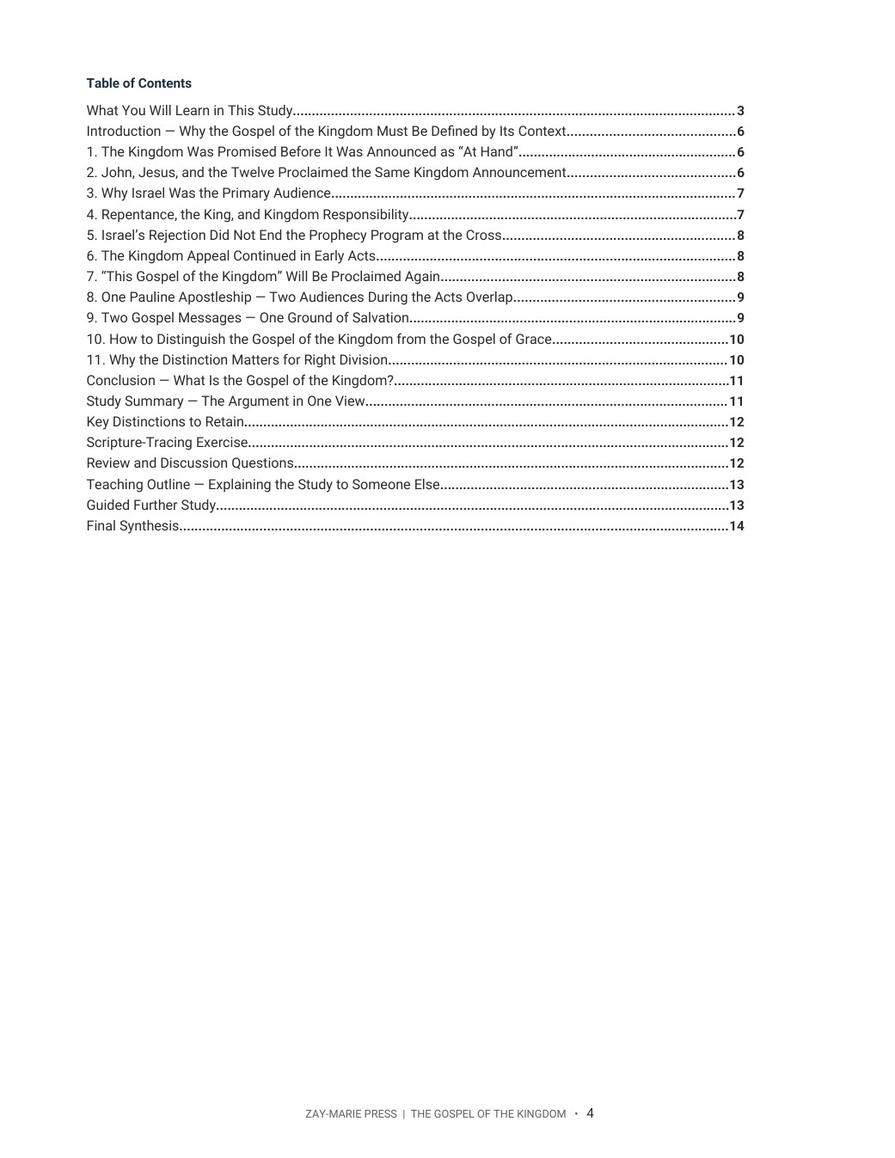
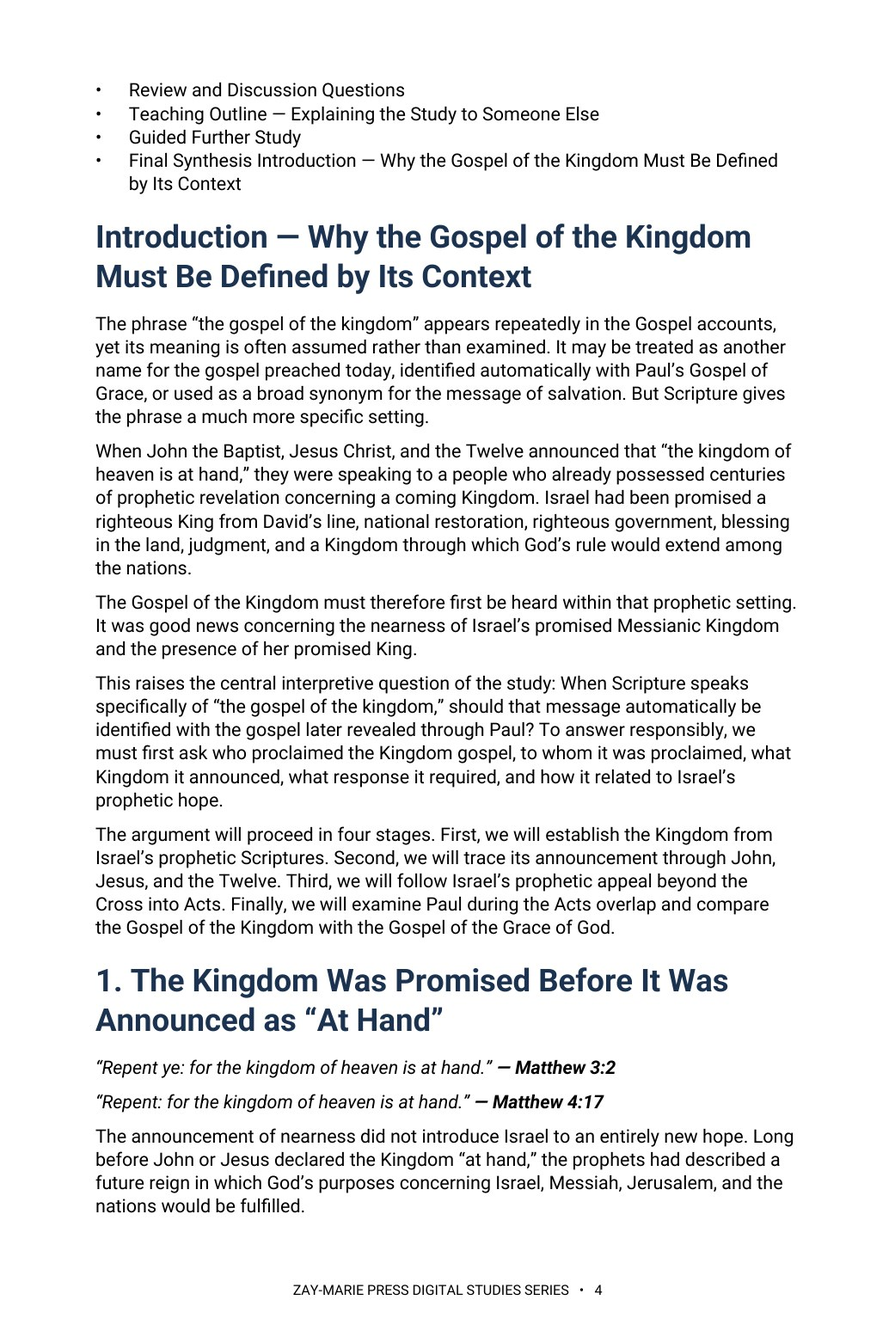
Study 2 retrofit: 18 pages, previews 2/3/4 at 1041x1562, trackers v1.49/v1.143
Claude-Session: https://claude.ai/code/session_01KcENxFzE91mCRyTPWhcwnE

Changed region(s): [[0.0922, 0.0624, 0.8915, 0.9042], [0.3381, 0.9354, 0.6455, 0.9666]]

diff --git a/study-02-the-gospel-of-the-kingdom.html b/study-02-the-gospel-of-the-kingdom.html
@@ -27,9 +27,9 @@
 <section class="detail-section soft"><div class="wrap"><div class="eyebrow">WHAT YOU’LL STUDY</div><h2>Trace the Kingdom Message From Prophecy Through the Acts Overlap</h2><div class="study-points"><div class="study-point"><h3>The Kingdom Promised Before Matthew</h3><p>Establish the prophetic background of Messiah, David’s throne, Israel’s restoration, righteous government, and God’s rule among the nations.</p></div><div class="study-point"><h3>John, Jesus &amp; the Twelve</h3><p>Follow the same “at hand” Kingdom announcement through John the Baptist, Jesus Christ, and the Twelve.</p></div><div class="study-point"><h3>Israel as the Covenantal Audience</h3><p>Examine why the initial Kingdom proclamation was directed to Israel and how covenant, Messiah, and Kingdom promises identify its setting.</p></div><div class="study-point"><h3>The Prophetic Appeal After the Cross</h3><p>Use Acts 1–3 to see why Israel’s Prophecy Program continued after the resurrection rather than ending at the Cross.</p></div><div class="study-point"><h3>Paul During the Acts Overlap</h3><p>Distinguish Paul’s one Mystery apostleship from Prophecy truth he could communicate to Israel while both programs operated concurrently.</p></div><div class="study-point"><h3>Kingdom Gospel &amp; Gospel of Grace</h3><p>Compare audience, revealed content, promises, commission, and program while preserving the finished work of Christ as the saving ground.</p></div></div></div></section>
 <section class="detail-section cream"><div class="wrap"><div class="eyebrow">KEY SCRIPTURES</div><h2>Examine the Passages for Yourself</h2><div class="scripture-grid"><div class="scripture-card"><h3>Isaiah 9:6–7</h3><p>Places the promised Son upon David’s throne and describes the government and Kingdom already revealed in Prophecy.</p></div><div class="scripture-card"><h3>Jeremiah 23:5–8</h3><p>Promises a righteous Davidic King under whose reign Judah is saved and Israel dwells safely.</p></div><div class="scripture-card"><h3>Daniel 2:44</h3><p>Describes the Kingdom established by the God of heaven in relation to the kingdoms of this world.</p></div><div class="scripture-card"><h3>Matthew 3:1–2; 4:17</h3><p>Records John and Jesus announcing that Israel’s already-promised Kingdom had drawn near.</p></div><div class="scripture-card"><h3>Matthew 10:5–7</h3><p>Identifies Israel as the initial audience and records the Twelve proclaiming the same Kingdom announcement.</p></div><div class="scripture-card"><h3>Acts 1:6–8; 3:19–21</h3><p>Shows that Israel’s Kingdom expectation and prophetic appeal remained operative after the resurrection.</p></div><div class="scripture-card"><h3>Acts 9:15, 20–22</h3><p>Shows Paul’s distinctive calling while illustrating his ministry to Israel concerning her promised Messiah during the overlap.</p></div><div class="scripture-card"><h3>Acts 20:24; 1 Corinthians 15:1–4</h3><p>Provides Pauline testimony concerning the Gospel of Grace and the saving message proclaimed to the Body of Christ.</p></div></div></div></section>
 <section class="detail-section"><div class="wrap"><div class="eyebrow">FROM THE STUDY</div><h2>The Kingdom Was Promised Before It Was Announced as “At Hand”</h2><div class="excerpt"><blockquote>“The Kingdom itself was not newly revealed. The prophetic Kingdom had already been made known; what John and Jesus announced was that the promised Kingdom had drawn near because the promised King was present.”</blockquote><p>This distinction establishes the study’s starting point: the Gospel of the Kingdom belongs to Israel’s revealed prophetic hope. The study then follows that message through the Gospel accounts and Acts before comparing it with the previously hidden Mystery revealed through Paul.</p></div></div></section>
-<section class="detail-section soft"><div class="wrap"><div class="eyebrow">A LOOK INSIDE</div><h2>Preview the Study Before You Purchase</h2><p class="preview-instruction">Click any page to enlarge.</p><div class="preview-grid"><div class="preview-card"><a class="preview-image-link" href="assets/study-02-page-3.jpg" data-preview-lightbox><img src="assets/study-02-page-3.jpg" alt="Study 2 page 3 preview — What You Will Learn"/></a><div class="page-no">Page 3</div><h3>What You Will Learn</h3><p>See the study’s learning goals and the skills it builds for comparing the Gospel of the Kingdom with the Gospel of the Grace of God.</p></div><div class="preview-card"><a class="preview-image-link" href="assets/study-02-page-4.jpg" data-preview-lightbox><img src="assets/study-02-page-4.jpg" alt="Study 2 page 4 preview — Table of Contents"/></a><div class="page-no">Page 4</div><h3>Table of Contents</h3><p>See the full structure of the study, from the introduction through the final synthesis.</p></div><div class="preview-card"><a class="preview-image-link" href="assets/study-02-page-6.jpg" data-preview-lightbox><img src="assets/study-02-page-6.jpg" alt="Study 2 page 6 preview — Introduction"/></a><div class="page-no">Page 6</div><h3>Introduction</h3><p>See how the study frames its central question and the method it follows to answer it from Scripture.</p></div></div></div></section>
-<section class="detail-section"><div class="wrap"><div class="eyebrow">WHAT’S INCLUDED</div><h2>A Focused Study Built for<br/>Understanding and Teaching</h2><div class="includes-grid"><div class="include-item"><h3>14-Page In-Depth Biblical Study</h3><p>A focused examination that develops the Gospel of the Kingdom through sustained biblical argument rather than a brief overview.</p></div><div class="include-item"><h3>20 Study Sections</h3><p>Progress from the prophetic Kingdom promises through the Gospel accounts, Acts, Pauline revelation, comparison, and final synthesis.</p></div><div class="include-item"><h3>Study Summary &amp; Key Distinctions</h3><p>Reinforce the central argument and retain crucial distinctions such as promise versus nearness, ground versus content, and concurrency versus transfer.</p></div><div class="include-item"><h3>Scripture-Tracing Exercise</h3><p>Work through the principal passages in sequence and record what each text contributes before consulting the study’s conclusions.</p></div><div class="include-item"><h3>12 Review &amp; Discussion Questions</h3><p>Test comprehension of the Kingdom’s audience, prophetic setting, Acts chronology, Paul’s commission, and the distinction between the two gospel messages.</p></div><div class="include-item"><h3>Nine-Part Teaching Outline</h3><p>A ready framework for explaining the study’s argument from the prophets through Matthew, Acts, Paul, and the future Kingdom proclamation.</p></div><div class="include-item"><h3>Five Guided Further-Study Investigations</h3><p>Trace the Kingdom before Matthew, its announcement, the Acts appeal, Paul during the overlap, and the two gospel messages independently.</p></div><div class="include-item"><h3>Final Synthesis Exercise</h3><p>Bring the evidence together in a one-page explanation of the Kingdom gospel, its audience, its Acts continuation, and its distinction from the Gospel of Grace.</p></div></div></div></section>
-<section class="detail-section cream"><div class="wrap"><div class="final-buy"><div><div class="eyebrow">STUDY 2 · DIGITAL STUDY</div><h2>The Gospel of the Kingdom</h2><p>14-page digital PDF · For personal use</p></div><div class="final-offer"><div class="detail-price">$5.99</div><span class="detail-button pending" aria-disabled="true">Get the Study</span></div></div><a class="back-link" href="digital-studies.html">← Back to All Digital Studies</a></div></section>
+<section class="detail-section soft"><div class="wrap"><div class="eyebrow">A LOOK INSIDE</div><h2>Preview the Study Before You Purchase</h2><p class="preview-instruction">Click any page to enlarge.</p><div class="preview-grid"><div class="preview-card"><a class="preview-image-link" href="assets/study-02-page-2.jpg" data-preview-lightbox><img src="assets/study-02-page-2.jpg" alt="Study 2 page 2 preview — Table of Contents"/></a><div class="page-no">Page 2</div><h3>Table of Contents</h3><p>See the full structure of the study, from the introduction through the final synthesis.</p></div><div class="preview-card"><a class="preview-image-link" href="assets/study-02-page-3.jpg" data-preview-lightbox><img src="assets/study-02-page-3.jpg" alt="Study 2 page 3 preview — What You Will Learn"/></a><div class="page-no">Page 3</div><h3>What You Will Learn</h3><p>See the study’s learning goals and the skills it builds for comparing the Gospel of the Kingdom with the Gospel of the Grace of God.</p></div><div class="preview-card"><a class="preview-image-link" href="assets/study-02-page-4.jpg" data-preview-lightbox><img src="assets/study-02-page-4.jpg" alt="Study 2 page 4 preview — Introduction"/></a><div class="page-no">Page 4</div><h3>Introduction</h3><p>See how the study frames its central question and the method it follows to answer it from Scripture.</p></div></div></div></section>
+<section class="detail-section"><div class="wrap"><div class="eyebrow">WHAT’S INCLUDED</div><h2>A Focused Study Built for<br/>Understanding and Teaching</h2><div class="includes-grid"><div class="include-item"><h3>18-Page In-Depth Biblical Study</h3><p>A focused examination that develops the Gospel of the Kingdom through sustained biblical argument rather than a brief overview.</p></div><div class="include-item"><h3>20 Study Sections</h3><p>Progress from the prophetic Kingdom promises through the Gospel accounts, Acts, Pauline revelation, comparison, and final synthesis.</p></div><div class="include-item"><h3>Study Summary &amp; Key Distinctions</h3><p>Reinforce the central argument and retain crucial distinctions such as promise versus nearness, ground versus content, and concurrency versus transfer.</p></div><div class="include-item"><h3>Scripture-Tracing Exercise</h3><p>Work through the principal passages in sequence and record what each text contributes before consulting the study’s conclusions.</p></div><div class="include-item"><h3>12 Review &amp; Discussion Questions</h3><p>Test comprehension of the Kingdom’s audience, prophetic setting, Acts chronology, Paul’s commission, and the distinction between the two gospel messages.</p></div><div class="include-item"><h3>Nine-Part Teaching Outline</h3><p>A ready framework for explaining the study’s argument from the prophets through Matthew, Acts, Paul, and the future Kingdom proclamation.</p></div><div class="include-item"><h3>Five Guided Further-Study Investigations</h3><p>Trace the Kingdom before Matthew, its announcement, the Acts appeal, Paul during the overlap, and the two gospel messages independently.</p></div><div class="include-item"><h3>Final Synthesis Exercise</h3><p>Bring the evidence together in a one-page explanation of the Kingdom gospel, its audience, its Acts continuation, and its distinction from the Gospel of Grace.</p></div></div></div></section>
+<section class="detail-section cream"><div class="wrap"><div class="final-buy"><div><div class="eyebrow">STUDY 2 · DIGITAL STUDY</div><h2>The Gospel of the Kingdom</h2><p>18-page digital PDF · For personal use</p></div><div class="final-offer"><div class="detail-price">$5.99</div><span class="detail-button pending" aria-disabled="true">Get the Study</span></div></div><a class="back-link" href="digital-studies.html">← Back to All Digital Studies</a></div></section>
 <section class="study-method-course-bridge"><div class="wrap"><div class="study-method-course-panel"><div><div class="eyebrow">BUILD THE INTERPRETIVE METHOD</div><h2>Want More Than a Focused Study?</h2><p>Digital Studies examine particular biblical subjects and difficult passages. The 40-lesson Biblical Hermeneutics course teaches a complete, repeatable method for establishing meaning in context, determining proper assignment, and making responsible application.</p></div><a class="btn btn-primary" href="biblical-hermeneutics-course.html">BIBLICAL HERMENEUTICS COURSE</a></div></div></section></main><div class="preview-lightbox" id="preview-lightbox" role="dialog" aria-modal="true" aria-label="Enlarged study page preview"><button class="preview-lightbox-close" type="button" aria-label="Close enlarged preview">×</button><img src="" alt=""/><div class="preview-lightbox-hint">Scroll to read the full page · Press Esc or click outside the page to close</div></div>
 <footer class="site-footer"><div class="wrap footer-grid"><div class="footer-about"><h3>Zay-Marie Press</h3><p class="footer-tagline"><em>Where the Bible Means What It Says.</em></p><p>Zay-Marie Press is a Christian theological publisher dedicated to producing doctrinally precise, carefully structured biblical resources that equip pastors, teachers, and serious students with clarity, depth, and Scripture-anchored truth.</p><p><a href="https://zaymariepress.com">zaymariepress.com</a><br/><a href="mailto:info@zaymariepress.com">info@zaymariepress.com</a></p></div><div class="footer-column"><h3>Explore</h3><div class="footer-links-stacked"><a href="books.html">Books</a><br/><a href="series.html">Series</a><br/><a href="biblical-hermeneutics-course.html">Course</a><br/><a href="digital-studies.html">Digital Studies</a><br/><a href="resources.html">Resources</a><br/><a href="bible-book-summaries.html">Bible Book Summaries</a><br/><a href="doctrinal-packets.html">Doctrinal Packets</a><br/><a href="historical-drift.html">Historical Drift</a><br/><a href="about.html">About</a><br/><a href="contact.html">Contact</a></div></div><div class="footer-column"><h3>Reader Support</h3><div class="footer-links-stacked"><a href="reader-support.html#faq">FAQ</a><br/><a href="reader-support.html#shipping-returns">Shipping &amp; Returns</a><br/><a href="reader-support.html#digital-downloads">Digital Downloads</a><br/><a href="reader-support.html#contact-support">Contact Support</a></div></div><div class="footer-column"><h3>Acts Overlap</h3><p><strong>Acts Overlap Theology Series</strong></p><p><em>Two Distinct Streams. One Overlap.</em></p><p><a href="series.html">Series Overview</a></p></div></div><div class="wrap footer-bottom">© 2026 Zay-Marie Press. All rights reserved.</div></footer>
 <script src="site.js"></script><script>(function(){var box=document.getElementById("preview-lightbox"),img=box.querySelector("img"),close=box.querySelector(".preview-lightbox-close"),hint=box.querySelector(".preview-lightbox-hint"),hintTimer;function shut(){clearTimeout(hintTimer);box.classList.remove("open");hint.classList.remove("fade");document.body.style.overflow="";img.src="";}document.querySelectorAll("[data-preview-lightbox]").forEach(function(a){a.addEventListener("click",function(e){e.preventDefault();clearTimeout(hintTimer);img.src=a.getAttribute("href");img.alt=a.querySelector("img").alt;hint.classList.remove("fade");box.classList.add("open");document.body.style.overflow="hidden";box.scrollTop=0;hintTimer=setTimeout(function(){hint.classList.add("fade");},3000);});});close.addEventListener("click",shut);box.addEventListener("click",function(e){if(e.target===box)shut();});document.addEventListener("keydown",function(e){if(e.key==="Escape"&&box.classList.contains("open"))shut();});})();</script>

diff --git a/site.js b/site.js
@@ -62,7 +62,7 @@ const resourceModal=document.querySelector('#resource-modal'), resourceModalTitl
 if(resourceModal&&resourceModalTriggers.length){const closeResourceModal=()=>{resourceModal.hidden=true;document.body.classList.remove('resource-modal-open');lastResourceTrigger?.focus();};resourceModalTriggers.forEach(trigger=>trigger.addEventListener('click',()=>{lastResourceTrigger=trigger;if(resourceModalTitle)resourceModalTitle.textContent=trigger.dataset.title||'Resource';if(resourceModalDescription)resourceModalDescription.textContent=trigger.dataset.description||'';if(resourceModalLink){resourceModalLink.href=trigger.dataset.href||'#';resourceModalLink.textContent=trigger.dataset.linkText||'OPEN RESOURCE';}resourceModal.hidden=false;document.body.classList.add('resource-modal-open');resourceModalClose?.focus();}));resourceModalClose?.addEventListener('click',closeResourceModal);resourceModal.addEventListener('click',e=>{if(e.target===resourceModal)closeResourceModal();});document.addEventListener('keydown',e=>{if(e.key==='Escape'&&!resourceModal.hidden)closeResourceModal();});}
 
 /* Display the verified final-PDF page count at the primary purchase decision point. */
-const digitalStudyPageCounts={1:17,2:14,3:16,4:18,5:16,6:16,7:14,8:13,9:16,10:20,11:15,12:15,13:19,14:15,15:15,16:16,17:18,18:18,19:16,20:16,21:17,22:16,23:14,24:16,25:17,26:16,27:16,28:16,29:19,30:17,31:18,32:19,33:18,34:16,35:16,36:16,37:16,38:16,39:16,40:16,41:16,42:16,43:16,44:16,45:16,46:16,47:16,48:16,49:17,50:16,51:16,52:16,53:16,54:16,55:16,56:16,57:16,58:16,59:16,60:18,61:16,62:16,63:16,64:16,65:16,66:16,67:16,68:16,69:16,70:16,71:16};
+const digitalStudyPageCounts={1:17,2:18,3:16,4:18,5:16,6:16,7:14,8:13,9:16,10:20,11:15,12:15,13:19,14:15,15:15,16:16,17:18,18:18,19:16,20:16,21:17,22:16,23:14,24:16,25:17,26:16,27:16,28:16,29:19,30:17,31:18,32:19,33:18,34:16,35:16,36:16,37:16,38:16,39:16,40:16,41:16,42:16,43:16,44:16,45:16,46:16,47:16,48:16,49:17,50:16,51:16,52:16,53:16,54:16,55:16,56:16,57:16,58:16,59:16,60:18,61:16,62:16,63:16,64:16,65:16,66:16,67:16,68:16,69:16,70:16,71:16};
 const digitalStudyMatch=window.location.pathname.match(/\/study-(\d+)-/i);
 const digitalStudyFormat=document.querySelector('.detail-hero .detail-format');
 if(digitalStudyMatch&&digitalStudyFormat){const studyNumber=Number(digitalStudyMatch[1]),pageCount=digitalStudyPageCounts[studyNumber];if(pageCount)digitalStudyFormat.textContent=`Digital PDF · ${pageCount} Pages`;}

diff --git a/CLAUDE.md b/CLAUDE.md
@@ -21,7 +21,7 @@ These are kept in the repo at `controlling-documents/` and are the current versi
 - As of v1.48 (publisher directive, 2026-10-02), §6 sets the **body-text standard at 10 pt** and enforces the table-spacing rule, written into this file in the same pass: body paragraphs, lists, table body text and Table of Contents entries are Roboto Regular 10 pt black (previously 9 pt), at 6 pt after / 0 before / 1.08 line spacing (lists 0 pt after each item, 6 pt after the last); headings (17 pt), callout titles (10 pt bold caps), the "Study Outline" sub-heading (12 pt) and the footer are unchanged. Every table, callout boxes included, has 10 pt of controlled spacing before and after: the paragraph before a table has at least 10 pt space-after and the paragraph after it at least 10 pt space-before, so body text never touches a table (the defect was seen on Study 29, under a KJV table). Studies built at 9 pt (1, 3, 7, 8, 10, 23, 26, 29 and the other rebuilt studies) are reset to 10 pt when reopened or in the Wave 5 sweep, and page counts, TOC pages, previews and `site.js` follow each rebuild. In every study check (Step 1) report the body size and measure the first paragraph after each table. Study 29 is the first study rebuilt to it.
 **`controlling-documents/Digital_Studies_Relationship_Map_v1.39.md`** — records each study's distinct subject, its related studies, the eight priced six-study collections, the Paul's Missionary Journeys cross-reference map, and the five primary catalog categories (currently version 1.39, covers Studies 1–71; update it as new studies publish, bump the version number, rename the file to match, and log the change in its own version-history table — mirroring the Master Standard's `_vX.Y` filename convention). Check a proposed topic against it before recommending or writing a new study. (2026-09-28: the file was missing from this repo despite this note referencing it; replaced from the publisher's copy and bumped v1.15→v1.25 in the same pass. If this note ever again points to a version not present under `controlling-documents/`, ask the publisher for a copy rather than proceeding without the check.)
 - **`controlling-documents/Digital_Studies_Category_Standard_v1.1.md`** — FINAL and binding (publisher, 2026-10-01): the rules for the five primary catalog categories (Foundations, Israel & Prophecy, Body of Christ, Passages, Doctrinal Themes), the ordered decision procedure for new studies, the precedents, all 71 fixed assignments, and the cover-label form for each category. Read it before placing any card or cover label. Do not ask the publisher where a study belongs; apply the procedure and state the result. Only the publisher changes a ruling; then bump this Standard's version and filename, re-letter the cover, and update the Relationship Map.
-- **`controlling-documents/Doctrinal_Upgrade_Retrofit_Plan_v1.48.md`** — working tracker for retrofitting Studies 1–59 to the 2026-10-02 doctrinal upgrade (Framework/PAM v1.1, Master Standard v1.40, Rules 7–17): withdrawn-wording search keys, impact tiers, waves and the per-study method. Read it before continuing the retrofit in any session; update status, bump the version and rename the file as work proceeds.
+- **`controlling-documents/Doctrinal_Upgrade_Retrofit_Plan_v1.49.md`** — working tracker for retrofitting Studies 1–59 to the 2026-10-02 doctrinal upgrade (Framework/PAM v1.1, Master Standard v1.40, Rules 7–17): withdrawn-wording search keys, impact tiers, waves and the per-study method. Read it before continuing the retrofit in any session; update status, bump the version and rename the file as work proceeds.
 - **`controlling-documents/Doctrinal_Packet_Standard_v0.3.md`** — Doctrinal Packet Standard (DRAFT; §7 approved). Governs the separate Doctrinal Packets product strand (5-page interpretive PDFs per Bible book — a print-friendly cover as page 1 plus 4 content pages, $2.99, KJV, pilot: Genesis, live at `packet-genesis.html`, hub `doctrinal-packets.html`; site pages say "5 Pages", cover styles live in `packets.css`, Old Testament blue and New Testament soft pale green, hub listed in Bible order). **Preview rule (publisher directive, 2026-09-29, packets only):** previews show about one page's worth in two cropped views (top of page 1 through the anchor texts; the chart section) — never the exegesis, architecture, Mystery contrast, logic chain, outline, or closing. Master Standard §16/§17 still govern Digital Studies. Bump the version and rename the file as the Standard is finalized.
 - **`controlling-documents/Preview_Page_Spoiler_Retrofit_Audit_v1.4.md`** — working tracker for the Studies 1–60 preview-page conclusion-spoiler retrofit (see the section below). Read it before continuing that audit in any session; update its status fields and changelog, bump the version, and rename the file to match as the audit proceeds — same `_vX.Y` convention as the other controlling documents. As of v1.1, the website-side half was DONE: all 60 studies' "What You'll Study" text was judged against the rule (methodology documented in the file) and 22 points across 11 studies were rewritten and pushed; an unrelated Study 22 content bug (Study 21's content had leaked into it) was also found and fixed. As of v1.2, the publisher supplied Studies 1–60's interior production PDFs and the interior-PDF half was also surveyed (read-only): 10 studies (37, 41, 45, 47, 48, 49, 51, 52, 53, 54) were found to have at least one interior "What You Will Learn" violation, 50 studies were confirmed compliant, and the orphaned `assets/study-45-sanctification-under-grace.docx` (removed from the repo per the publisher in v1.0) was confirmed word-for-word identical to Study 45's actual production interior PDF content. As of v1.3, the publisher supplied editable DOCX sources for all 10 violating studies; all 15 violating points were rewritten and approved, delivered as corrected final PDFs, and — along the way — a second defect was found and fixed (Studies 47 and 48's source DOCX still had an unintegrated cover placeholder despite both being long-published live with real covers; fixed by inserting the existing approved cover art). The website's "What You Will Learn" preview image (`study-NN-page-3.jpg`) was regenerated from the corrected content for all 10 studies and pushed to `main` (commit `cea1859`), verified against a fresh clone. **The website side of this audit is now fully compliant for all 60 studies.** Outstanding: the publisher's purchasable interior PDF files themselves have corrected versions delivered, but distribution to existing purchasers was decided by the publisher on 2026-09-29: silent swap of the files behind the existing downloads, no reissue notice (recorded in the v1.4 changelog entry; the product files are not in this repo).
 

diff --git a/controlling-documents/Doctrinal_Upgrade_Retrofit_Plan_v1.49.md b/controlling-documents/Doctrinal_Upgrade_Retrofit_Plan_v1.49.md
@@ -57,6 +57,7 @@ Working tracker for correcting published studies to the Framework/PAM v1.1, Mast
 | 18 Peter and Paul | Tier 2 read (Rule 18, overlap, Rule 17, Rule 11, Acts 28, Romans 11, Colossians and 2 Peter anchor, internal terms) | DONE 2026-10-03 (v1.47): rebuilt from the publisher PDF (432x649) to the Study 52 page geometry at 10 pt body (18 pp, Roboto). Two 'framework' phrasings reworded; Rule 18 full sentence plus short form after the synagogue mention; overlap, Rule 17, Rule 11 and Romans 11 four-boundary sentences added; Acts 28 now national judicial suspension, not abolition and not a transfer; Colossians and 2 Peter anchor added. Cover FOUNDATIONS unchanged; comparison image carried over. Website: site.js 18:18 unchanged, previews 2, 3, 6 re-rendered at 1041x1562. |
 | 15 Faith and Works in James and Paul | Tier 2 read (James anchor, Titus citation, overlap, Rule 17, internal terms) | DONE 2026-10-03 (v1.48): rebuilt from the publisher PDF (432x649) to the Study 52 page geometry at 10 pt body (16 → 15 pp, Roboto; layout-only tightening on the final section — headings 8 pt before, imprint 5 pt before — to keep the imprint on a page with content). Five 'framework' phrasings and the table row 'Covenantal framework' reworded; overlap and Rule 17 sentences added; James and Titus anchor added (Titus ruling: same treatment as 1 Timothy); Review questions restart at 1. Website: site.js 15:15, static page text 15, previews 2, 3, 5 re-rendered at 1041x1562. |
 | 16 The Believer’s Identity in Christ | Tier 3 read (Spirit baptism wording, Body is not Israel, Jewish member of the Body, Philippians/Colossians anchor, internal terms) | DONE 2026-10-03 (v1.48): rebuilt from the publisher PDF (432x649) to the Study 52 page geometry at 10 pt body (16 pp, Roboto). 'Under the Framework' reworded to 'On this reading'; overlap and Rule 17 sentences added in 'The Body Is Not Israel'; Jewish-member-of-the-Body line added after 1 Corinthians 12:13; Philippians and Colossians anchor added. Website: site.js 16:16 unchanged, previews 2, 3, 5 re-rendered at 1041x1562. |
+| 2 The Gospel of the Kingdom | Tier 2 read (Rule 18 synagogue section, Acts 28, overlap, Rule 17, callout count, front copyright page, internal terms) | DONE 2026-10-03 (v1.49): rebuilt from the publisher PDF (Letter, 9 pt) to the Study 52 page geometry at 10 pt body (14 → 18 pp, Roboto Regular/Bold/Italic/BoldItalic). Front copyright page removed (imprint only); Study Outline converted to an unnumbered bullet list matching the body; Teaching Outline Roman numerals removed; Scripture-Tracing converted to a Passage/Trace table; 12 callouts reduced to five (seven became body paragraphs with bold run-in leads); site cover (ISRAEL & PROPHECY) used. Rule 18 full sentence and short form, overlap and Rule 17 sentences added in section 8; Acts 28 callouts now 'not abolition and not a transfer'. Website: site.js 2:18, page text 18, previews now pages 2, 3, 4 (TOC, What You Will Learn, Introduction) at 1041x1562; old page-4 and page-6 images replaced or removed. |
 | 39 The Church's Relationship to Israel's Scriptures | Abrahamic/covenant participation + overlap sentence | DONE 2026-10-02 (v1.23): interior corrected (16 pp, Roboto). Withdrawn overlap sentence replaced with the standing sentence and Acts 28 'not abolition and not a transfer' added (§9); 'Gentiles participate spiritually' replaced by the standing Galatians 3 sentence (§8) and 'whole/every covenant term' partial-transfer wording tightened (§8, Study Summary, Key Distinctions table); Romans 11 four-point list and triad added (Introduction); 2 Timothy and Philippians anchors converted and a Colossians anchor added. Sections moved down: TOC updated (7 numbers); 16 pp. Website: previews 2, 3, 5 re-rendered at 1041x1565; site.js 39:16 unchanged |
 | 40 Who Is Abraham's Seed? | Gal 3 / Abrahamic participation (core) | DONE 2026-10-02 (v1.22): interior corrected (16 pp, Roboto). Withdrawn overlap sentence replaced with the standing sentence (Introduction); Romans 11 four-point list and triad added (Introduction); the 'Gentiles participate spiritually / Abrahamic heirship, benefit, inheritance, connection' family replaced with the standing Galatians 3 sentence and plain wording (§6, §8, §10, Study Summary, Key Distinctions table); Romans 4 'participate in promise' and Teaching Outline 'share that benefit' reworded. Sections moved down: TOC updated (Conclusion p10, Scripture-Tracing p11, Guided Further Study p16); 16 pp. Website: preview pages 2, 3 and 4 re-rendered; site.js 40:16 unchanged |
 | 52 Sonship and Adoption | Gal 3 / Abrahamic participation | DONE 2026-10-02 (v1.21): interior corrected (16 pp, Roboto). Withdrawn Galatians 3:26–29 'Gentiles participate spiritually / ethnic distinction is kept' wording replaced by the standing Galatians 3 sentence (3.4) and the 'participation in the seed is spiritual' line reworded; Study 40 pointer parenthetical removed; nine 'The Framework does not assign…' anchors and the Hebrews sentence converted to the reader-facing forms; Romans 11 four-point list and triad added (Group 3). Shorter anchors moved sections up a page, so TOC numbers updated (§5 p9, §6 p11, Conclusion p12, etc.); total still 16 pp. Website: page-2 (TOC) preview re-rendered; pages 3 and 5 unchanged |
@@ -139,3 +140,4 @@ Working tracker for correcting published studies to the Framework/PAM v1.1, Mast
 - v1.46 (2026-10-03): Study 14 retrofit complete (see row). 1 Timothy anchor ("This reading of 1 Timothy rests on the letter’s own audience markers and setting.") approved by the publisher; Titus still awaits its own ruling. Next: Study 18.
 - v1.47 (2026-10-03): Study 18 retrofit complete (see row). Next: Studies 15, 16, 2, 59, 60 rebuilds and the remaining Wave 5 items.
 - v1.48 (2026-10-03): Studies 15 and 16 retrofit complete (see rows). Titus anchor ruled: same treatment as 1 Timothy ("This reading of James and Titus rests on the letters’ own audience markers and setting." in Study 15). Next: Studies 2, 59, 60.
+- v1.49 (2026-10-03): Study 2 retrofit complete (see row). Next: Studies 59 and 60 (non-Roboto production masters), then the remaining Wave 5 items.

diff --git a/controlling-documents/Digital_Studies_PAM_Audit_v1.143.md b/controlling-documents/Digital_Studies_PAM_Audit_v1.143.md
@@ -372,3 +372,4 @@ Study 15 PDF not yet supplied. Typography: none of Studies 2, 3, 6, 8 is in EB G
 - v1.140 (2026-10-03): Study 14 interior rebuilt (15 pp, 10 pt, Roboto); Rule 18, overlap, Rule 17, Rule 11, Acts 10–11 and Romans 11 boundaries applied; previews 2, 3, 5 re-rendered.
 - v1.141 (2026-10-03): Study 18 interior rebuilt (18 pp, 10 pt, Roboto); Rule 18, overlap, Rule 17, Rule 11, Romans 11 boundaries and Colossians/2 Peter anchor applied; previews 2, 3, 6 re-rendered.
 - v1.142 (2026-10-03): Studies 15 and 16 interiors rebuilt (15 pp and 16 pp, 10 pt, Roboto); anchors, overlap, Rule 17 applied; previews re-rendered; Study 15 site.js 15:15 and static page text corrected.
+- v1.143 (2026-10-03): Study 2 interior rebuilt (18 pp, 10 pt, Roboto, five callouts, no front copyright page); Rule 18, overlap, Rule 17 applied; previews moved to pages 2, 3, 4; site.js 2:18.
